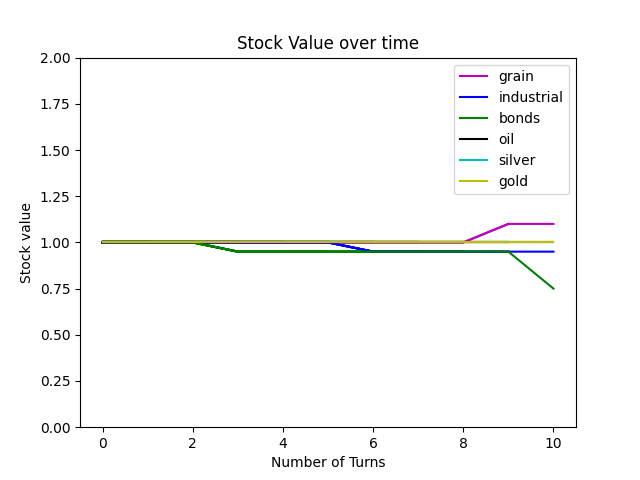
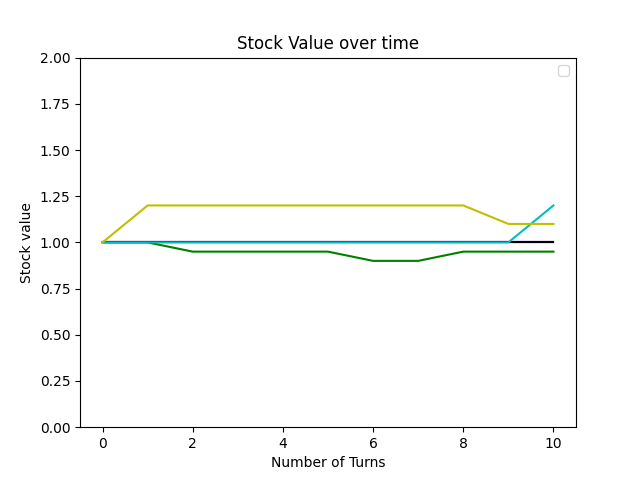
bug fixes and optimization

diff --git a/stockticker.py b/stockticker.py
@@ -220,6 +220,7 @@ class Player:
             except:
                 print(f"{index}: {stocks[index].get_name()}: 0, worth $0")
 
+        self.show_coh()
         self.show_net_worth()
 
     def set_coh(self, stock, val):
@@ -459,20 +460,22 @@ def main():
         turn_num += 1
         x.append(turn_num)
 
-        plt.xlabel('Number of Turns')
-        plt.ylabel('Stock value')
-        plt.legend(["grain", "industrial", "bonds", "oil", "silver", "gold"])
-        plt.title('Stock Value over time')
-        plt.ylim(ymin = 0, ymax = 2)
-
-        for _stock in stocks:
-            plt.plot(x, _stock.get_values(), _stock.get_color())
-
-        # plt.savefig('stock.png', dpi=1200)
-        plt.savefig('data/stock.png')
-
         # Every 10 turns, players can purchase.
         if turn_num % 10 == 0:
+            plt.xlabel('Number of Turns')
+            plt.ylabel('Stock value')
+
+            legend_str = [f"{index}: {stocks[index].get_name()}" for index in range(len(stocks))]
+
+            plt.legend(legend_str)
+            plt.title('Stock Value over time')
+            plt.ylim(ymin = 0, ymax = 2)
+
+            for _stock in stocks:
+                plt.plot(x, _stock.get_values(), _stock.get_color())
+
+            # plt.savefig('stock.png', dpi=1200)
+            plt.savefig('data/stock.png')
 
             print("############# AI Players will take turns #####################")
 
@@ -515,7 +518,12 @@ def main():
                                 continue
 
                             inp_str = f"How much of {stocks[int(i)].get_name()} to buy? MAX {500*( int(player.get_coh()/stocks[int(i)].get_value()) //500)} available @{stocks[int(i)].get_value()}: "
-                            buy_count = input(inp_str)
+                            try:
+                                buy_count = input(inp_str)
+                            except:
+                                print("Bad input")
+                                continue
+
                             buy_count = 500*( int(buy_count) //500)
                             if buy_count: player.buy_stock(stocks[int(i)], buy_count)
                             player.show_coh()
@@ -528,10 +536,18 @@ def main():
 
                         for index in stocks_to_sell.split(","):
 
-                            stock = stocks[int(index)]
+                            try:
+                                stock = stocks[int(index)]
+                            except:
+                                print("bad index")
+                                continue
                             try:
                                 inp_str = f"How much of {stock.get_name()} to sell? Available {player.get_holdings()[stock.get_name()]}: "
-                                sell_count = int(input(inp_str))
+                                try:
+                                    sell_count = int(input(inp_str))
+                                except:
+                                    print("Bad input")
+                                    continue
 
                                 # stock = [_stock for _stock in stocks if _stock.get_name() == list(player.holdings.keys())[int(i)]][0]
 
@@ -547,6 +563,8 @@ def main():
                     #         player.set_net_worth()
                     #         player.show_net_worth()
 
+                    player.set_market_value(stocks)
+
         # if turn_num > 100 or action == "gg":
         if action == "gg":
             break
@@ -554,6 +572,7 @@ def main():
         # sleep(0.1)
 
     print("########## Game ended! ##########")
+    print(f"Game lasted: {turn_num} Turns")
 
     # players[-1].show_holdings(stocks)
     # players[-1].show_coh()
